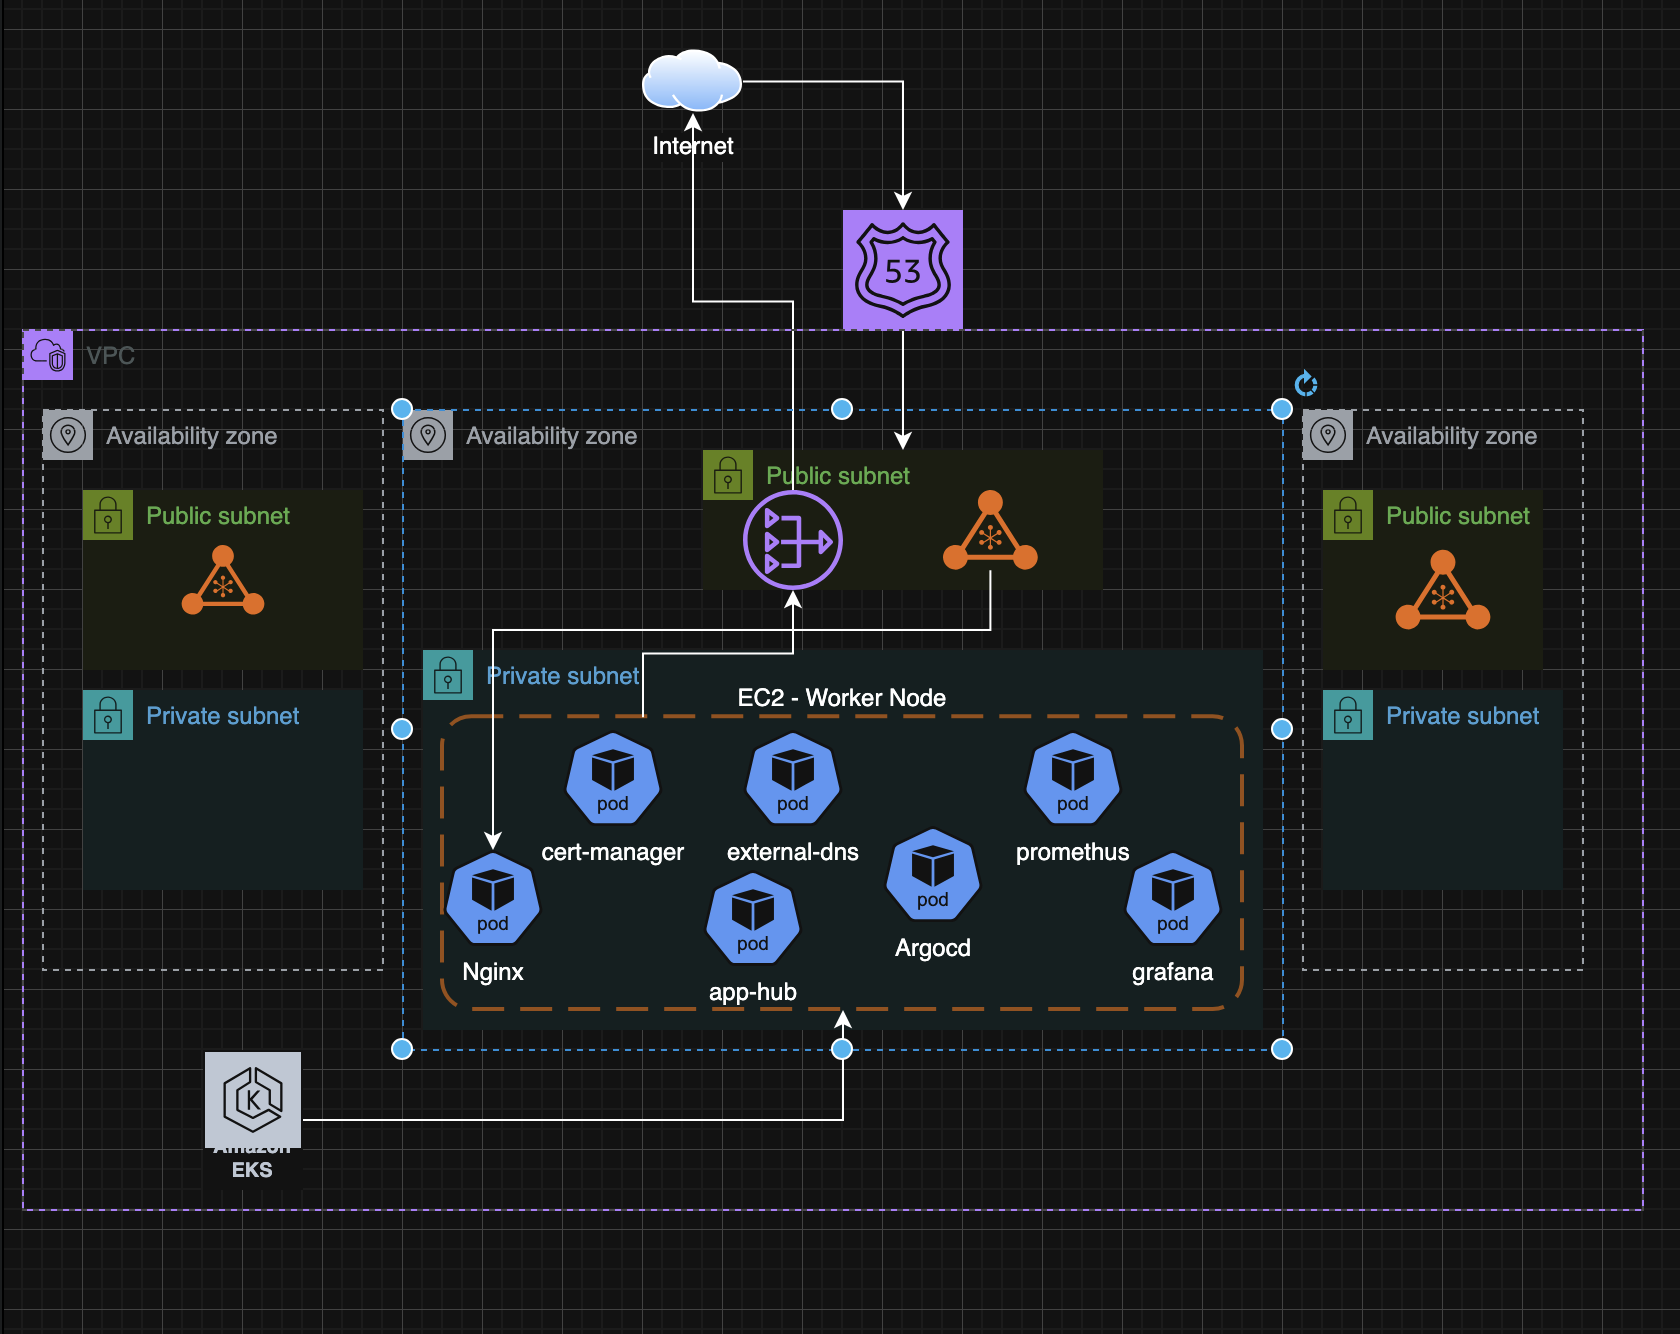
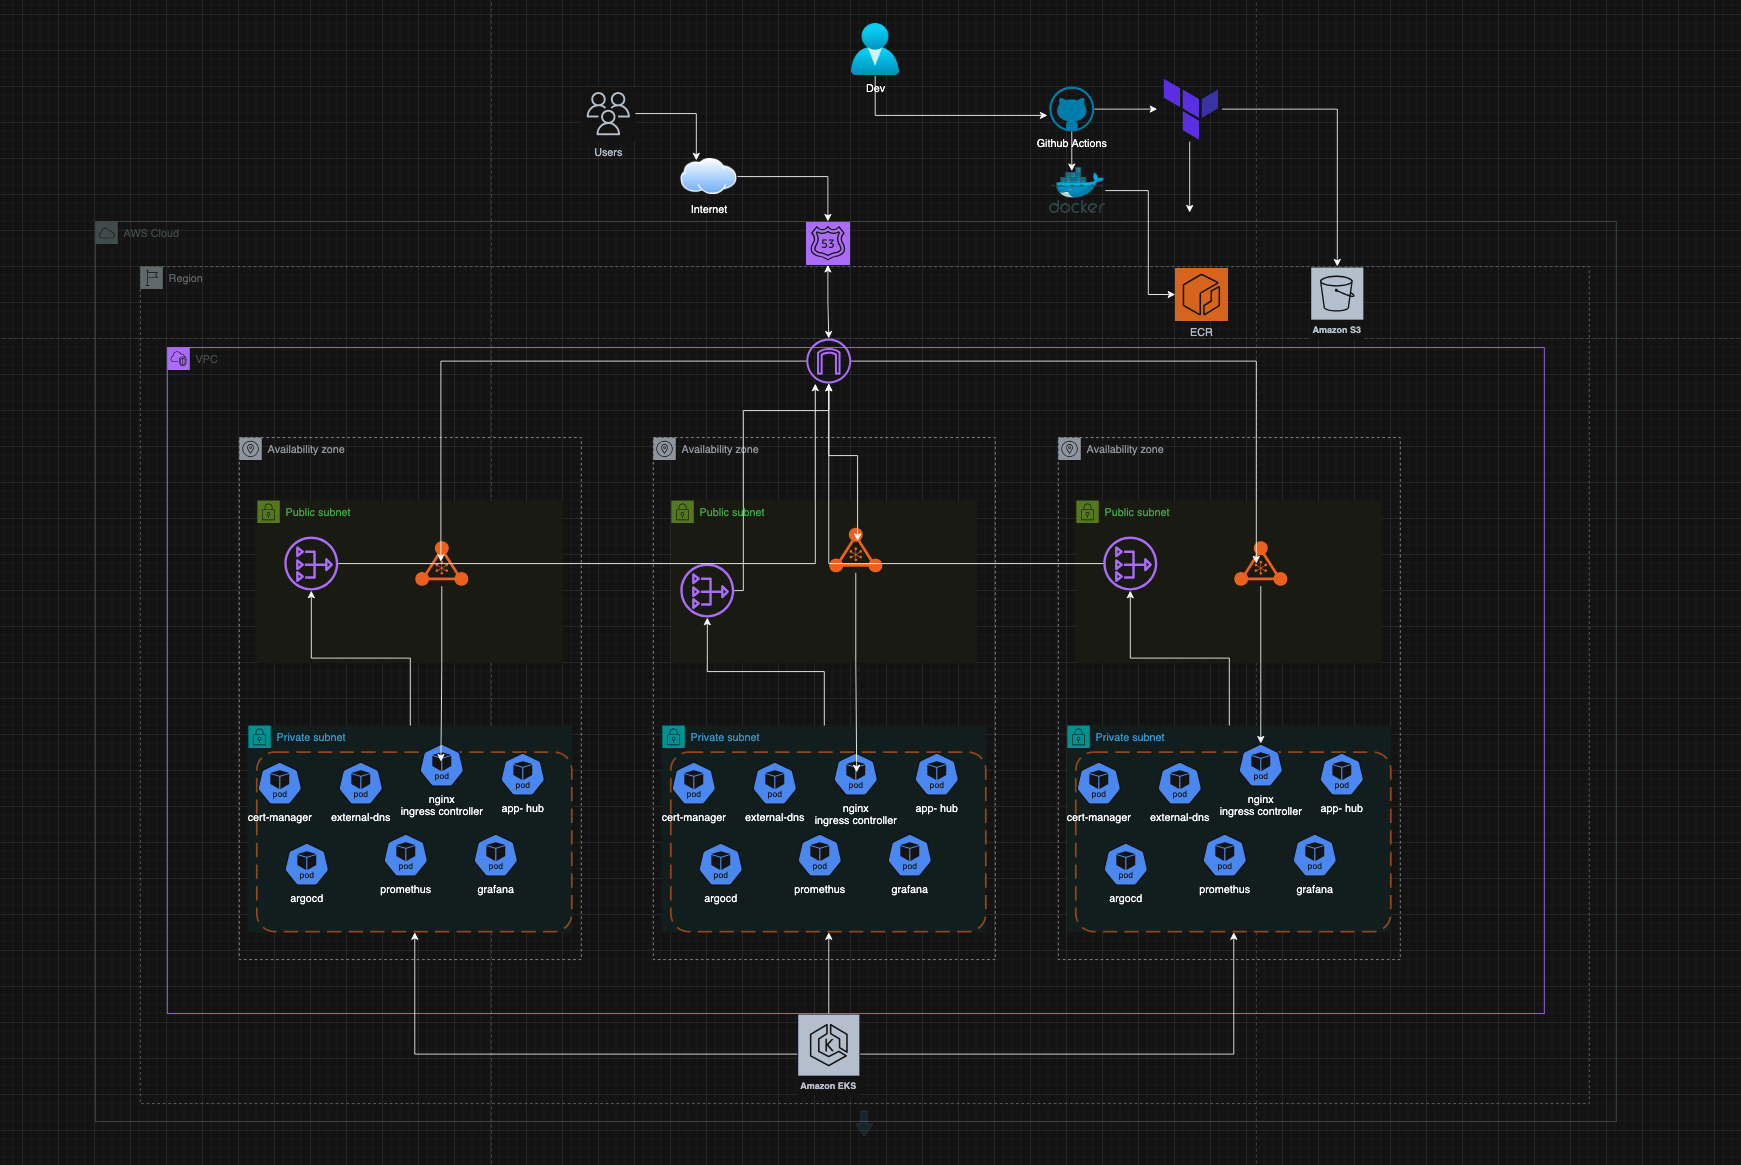
docs: update architecture diagram and add HPA

diff --git a/README.md b/README.md
@@ -32,6 +32,7 @@ A Python/Flask platform status page that tracks the live health of Kubernetes co
 - RBAC-scoped service account — only has `get` and `list` permissions on deployments
 - Served by Gunicorn behind NGINX Ingress with TLS
 - `/health` endpoint for Kubernetes liveness and readiness probes
+- HPA configured to scale between 1-3 replicas based on CPU utilisation
 
 ## Architecture
 
@@ -50,6 +51,7 @@ A Python/Flask platform status page that tracks the live health of Kubernetes co
 | CI/CD | GitHub Actions (OIDC auth) |
 | Container Registry | Amazon ECR |
 | Monitoring | Prometheus + Grafana |
+| Autoscaling | HPA (min 1, max 3 replicas) |
 
 ## Deployed Apps
 
